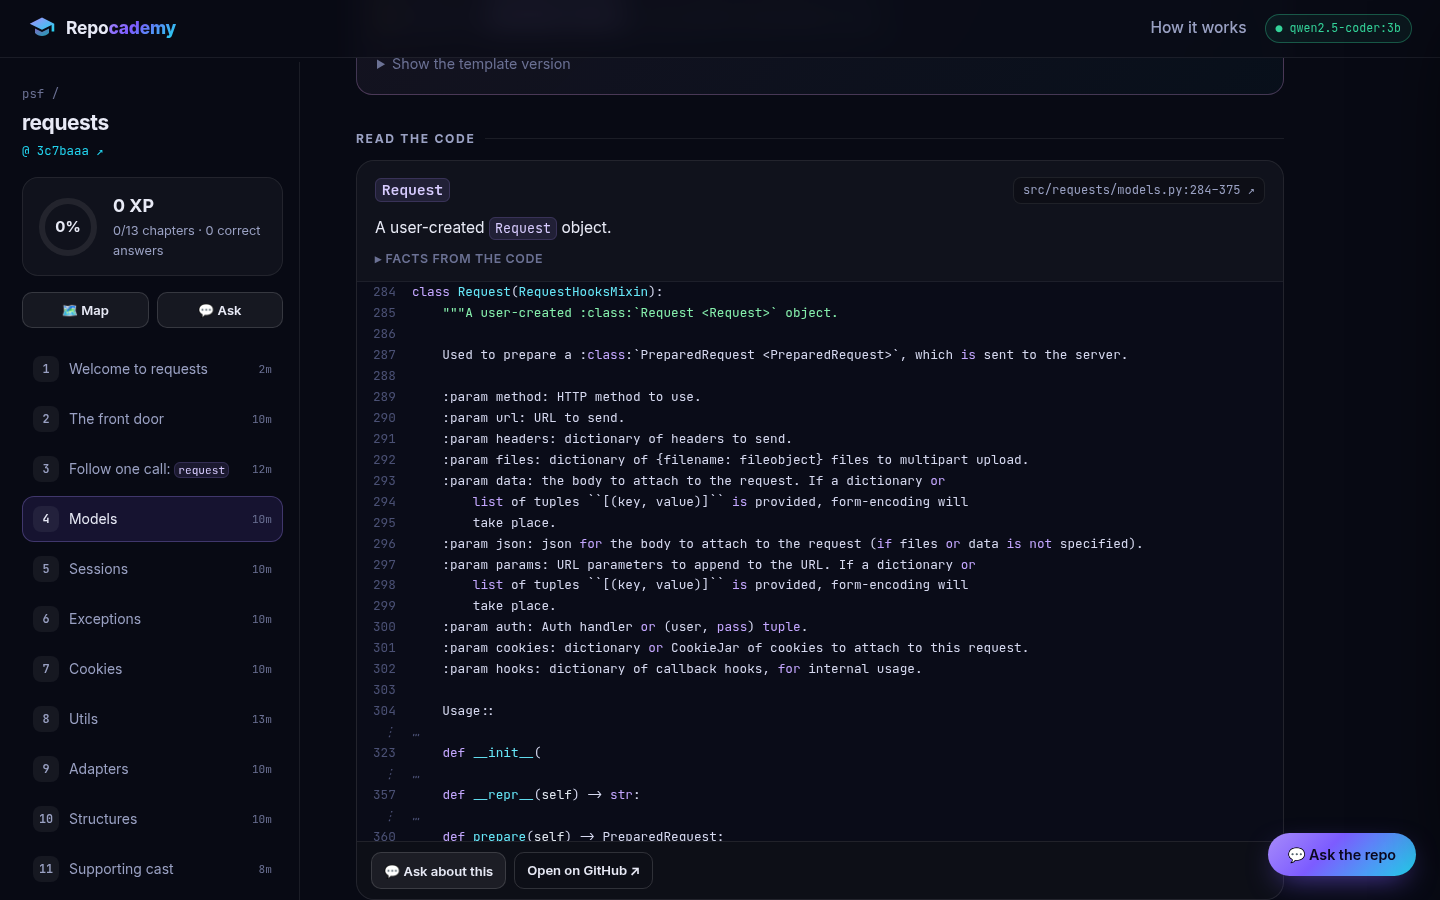
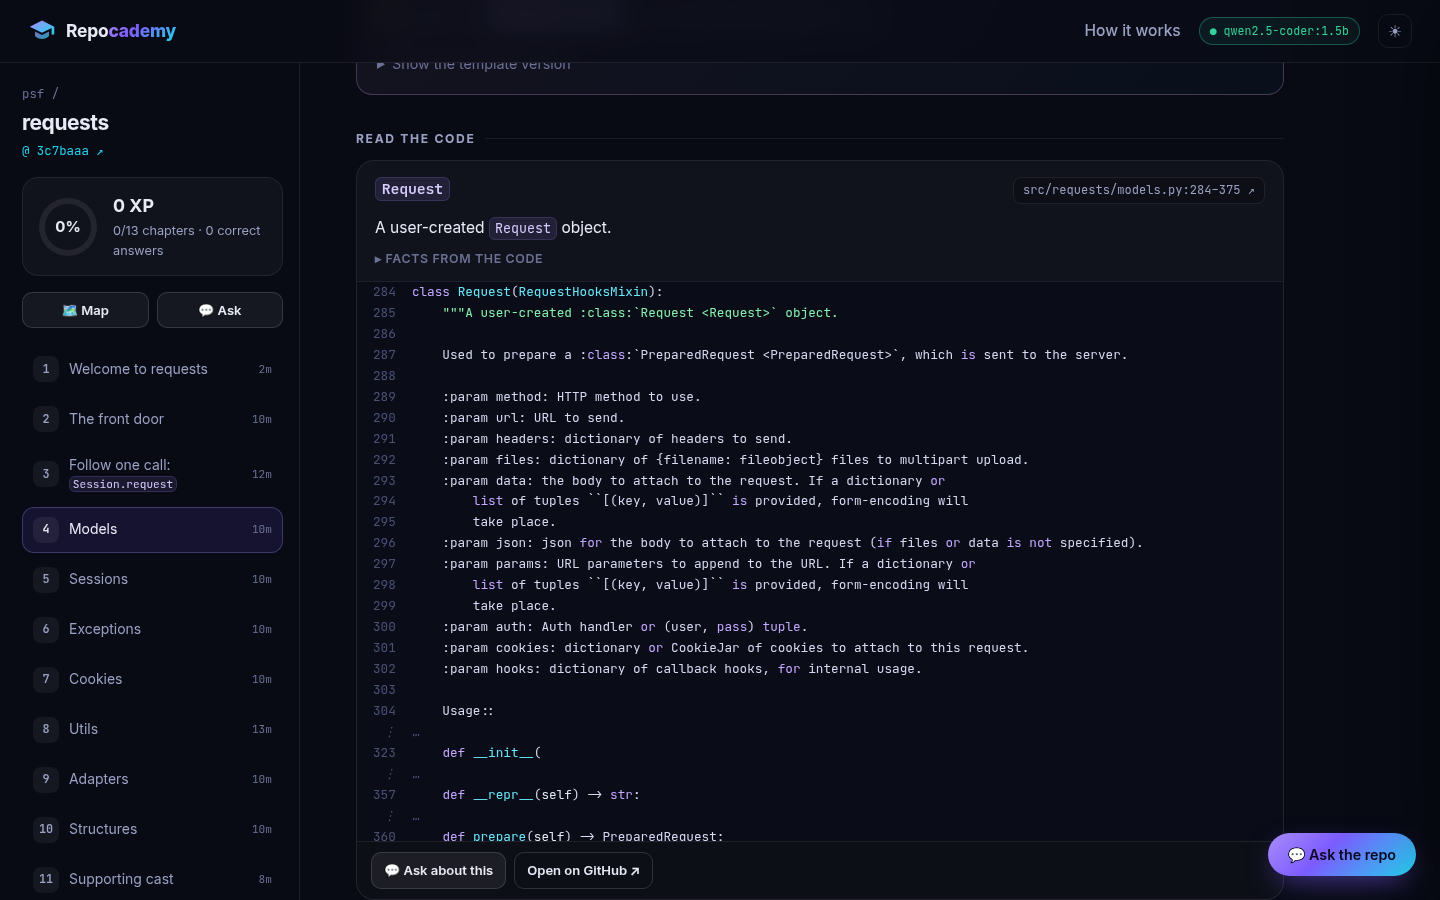
Screenshots regenerated (incl. verified ask-the-repo answer, axios trace, light mode, mobile); mobile sidebar offset fix

diff --git a/app/static/style.css b/app/static/style.css
@@ -354,7 +354,7 @@ table.layout{width:100%;border-collapse:collapse;font-size:.9rem} .layout td{pad
   .side,.main{min-width:0;max-width:100vw}
   .chtoggle{display:flex;width:100%;justify-content:flex-start;gap:8px;margin-bottom:10px;overflow:hidden;white-space:nowrap}
   .chtoggle .dim{overflow:hidden;text-overflow:ellipsis}
-  .side{padding:14px 16px;border-right:0;border-bottom:1px solid var(--line)}
+  .side{top:0!important;padding:14px 16px;border-right:0;border-bottom:1px solid var(--line)}
   .side .chlist,.side>div:last-child{display:none}
   .side.open .chlist,.side.open>div:last-child{display:grid}
   .side .ringrow{padding:10px;margin-bottom:10px} .side .repo{margin-bottom:10px}

diff --git a/scripts/screenshots.py b/scripts/screenshots.py
@@ -16,7 +16,8 @@ from playwright.sync_api import sync_playwright
 BASE = sys.argv[1] if len(sys.argv) > 1 else "http://127.0.0.1:8800"
 OUT = Path(__file__).resolve().parent.parent / "docs" / "screenshots"
 OUT.mkdir(parents=True, exist_ok=True)
-PY, JS, FRESH = "psf__requests", "expressjs__express", "https://github.com/karpathy/micrograd"
+PY, JS, AX, FRESH = "psf__requests", "expressjs__express", "axios__axios", "https://github.com/karpathy/micrograd"
+CHAT_Q = "How does a Session pick the adapter for a URL?"
 
 
 def course(slug):
@@ -24,6 +25,8 @@ def course(slug):
 
 
 def main():
+    import shutil  # the "fresh build" shot needs a repo without a built course
+    shutil.rmtree(Path(__file__).resolve().parent.parent / "cache" / "courses" / "karpathy__micrograd", ignore_errors=True)
     req = course(PY)
     errors = []
     with sync_playwright() as p:
@@ -46,7 +49,8 @@ def main():
         page.fill("#urlInput", FRESH)
         page.click("#urlForm button[type=submit]")
         page.wait_for_selector("#buildOverlay:not(.hidden)")
-        page.wait_for_timeout(1500)
+        page.wait_for_selector('#pipeline li[data-k="plan"].active, #pipeline li[data-k="plan"].done', timeout=60_000)
+        page.wait_for_timeout(250)
         page.screenshot(path=OUT / "02-fresh-build.png")
         page.wait_for_url("**/c/**", timeout=120_000)
         page.wait_for_selector(".chlist li")
@@ -107,13 +111,35 @@ def main():
         chapter(JS, tr_js["num"], 1500)
         page.screenshot(path=OUT / "09-express-trace.png")
 
+        page.set_viewport_size({"width": 1440, "height": 1120})
         chapter(PY, 1)
         page.click("#openChat")
-        page.fill("#chatInput", "How does a Session pick the adapter for a URL?")
+        page.fill("#chatInput", CHAT_Q)
         page.press("#chatInput", "Enter")
-        page.wait_for_selector("#chatLog .srcs", timeout=240_000)
-        page.wait_for_timeout(1000)
+        page.wait_for_selector("#chatLog .ans.fin", timeout=240_000)
+        page.wait_for_timeout(600)
+        page.evaluate("document.querySelector('#chatLog').scrollTop = 1e6")
+        page.wait_for_timeout(300)
         page.screenshot(path=OUT / "10-ask-the-repo.png")
+        page.set_viewport_size({"width": 1440, "height": 900})
+        print("chat answer:", page.locator("#chatLog .msg.bot .ans").last.inner_text())
+        page.click("#chatClose")
+
+        tr_ax = next(c for c in course(AX)["chapters"] if c["kind"] == "trace")
+        chapter(AX, tr_ax["num"], 1500)
+        page.screenshot(path=OUT / "11-axios-trace.png")
+
+        page.click("#themeBtn")
+        chapter(PY, tr["num"], 1200)
+        page.screenshot(path=OUT / "12-light-mode.png")
+        page.click("#themeBtn")
+
+        m = browser.new_page(viewport={"width": 390, "height": 844}, device_scale_factor=2, is_mobile=True, has_touch=True)
+        m.on("pageerror", lambda e: errors.append(str(e)))
+        m.goto(f"{BASE}/c/{PY}#ch{tr['num']}")
+        m.wait_for_selector("#chToggle")
+        m.wait_for_timeout(1200)
+        m.screenshot(path=OUT / "13-mobile.png")
         browser.close()
     print("console errors:", errors or "none")
     for f in sorted(OUT.glob("*.png")):
